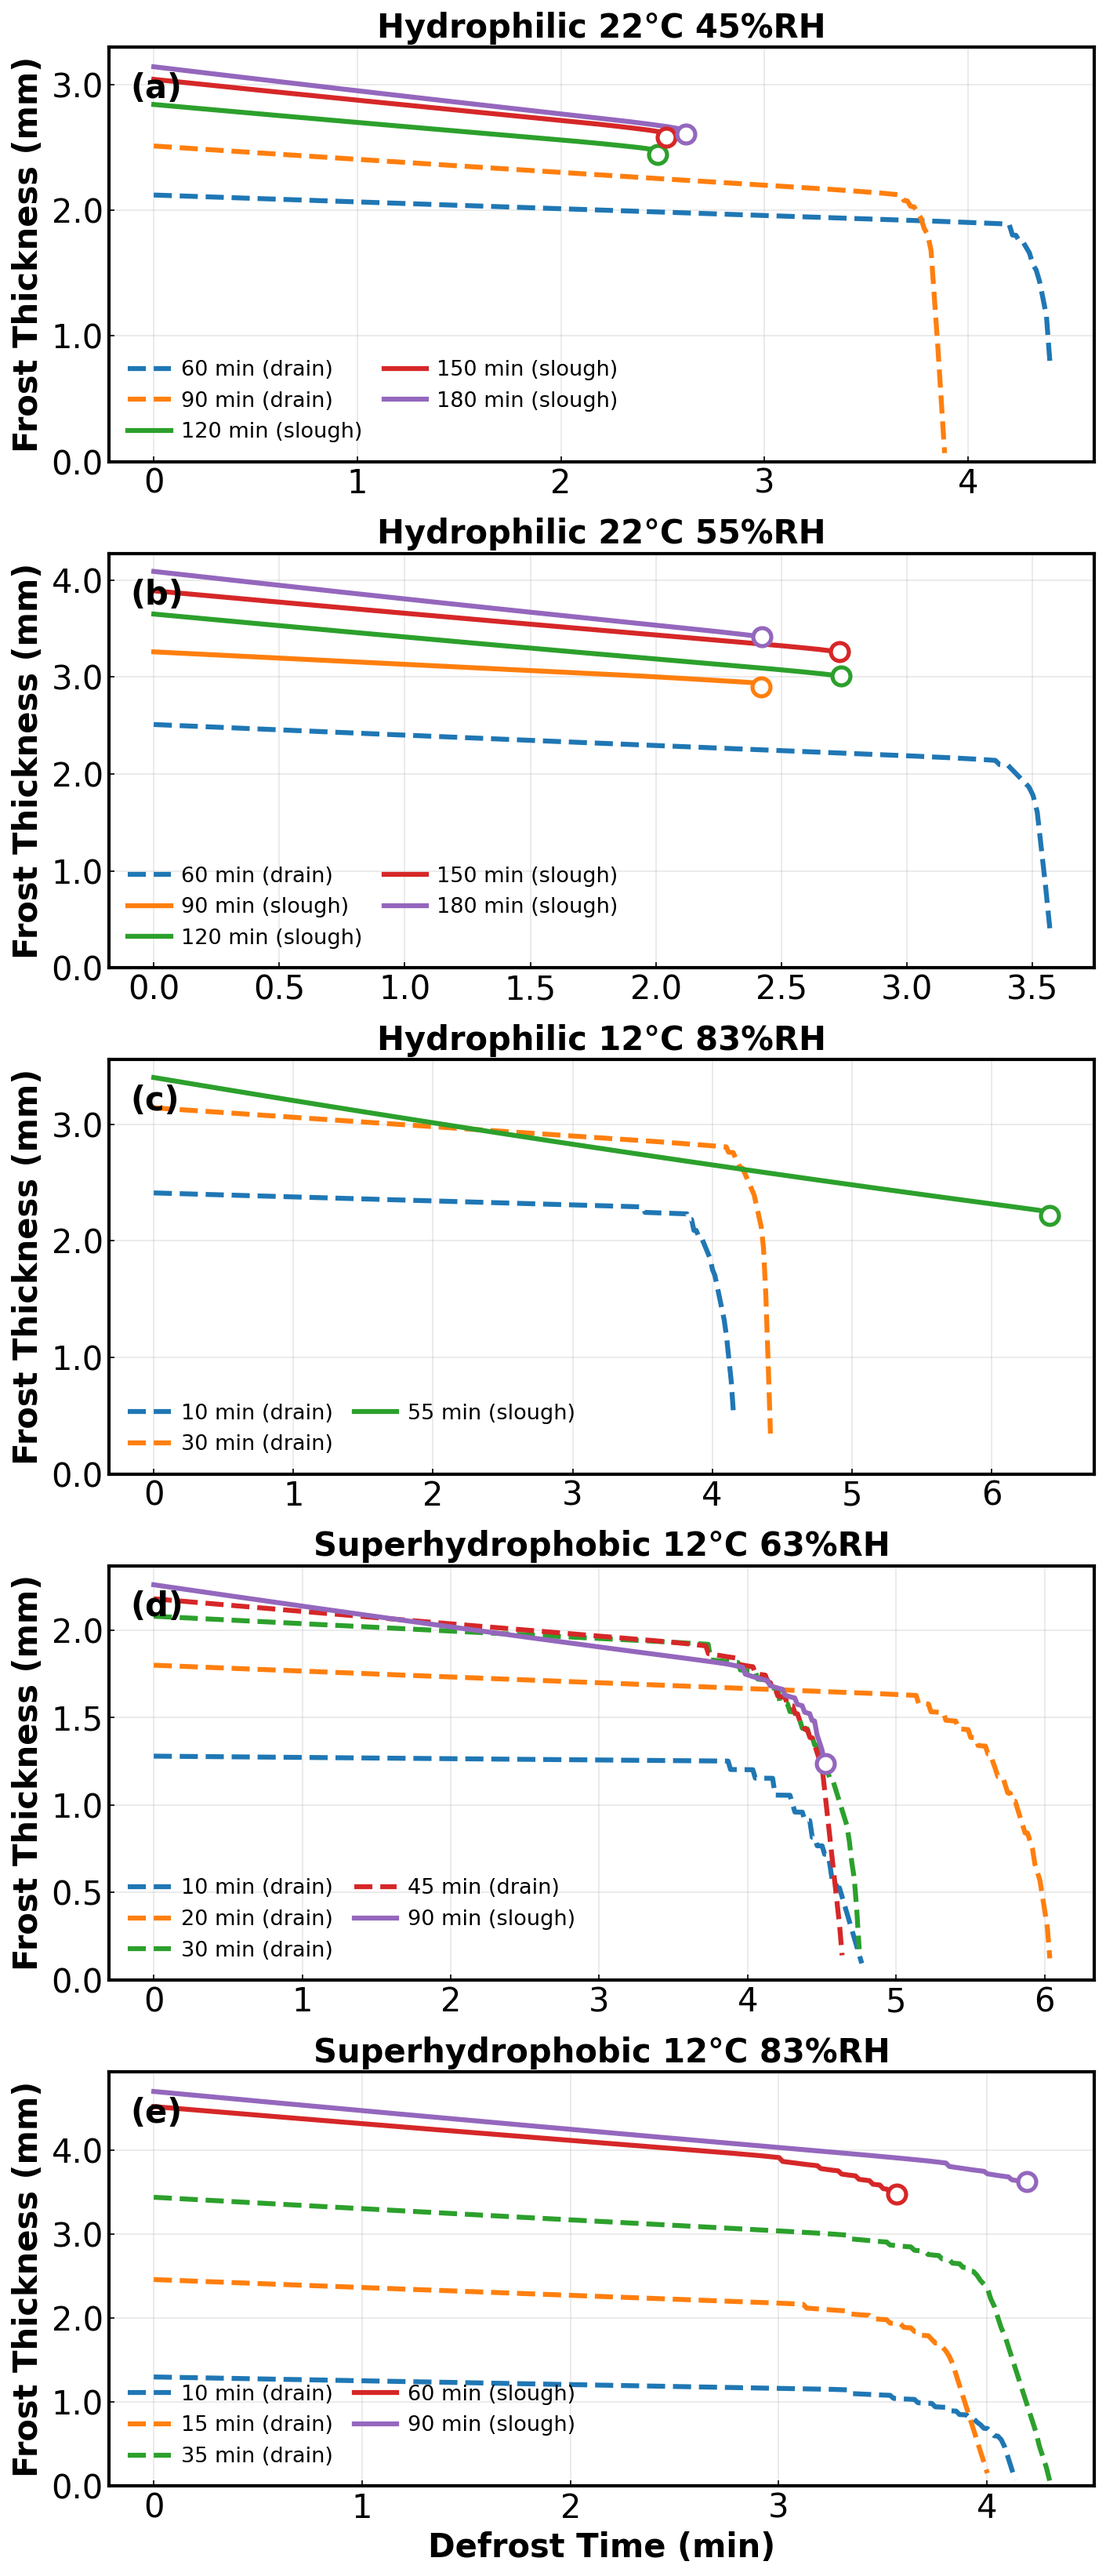
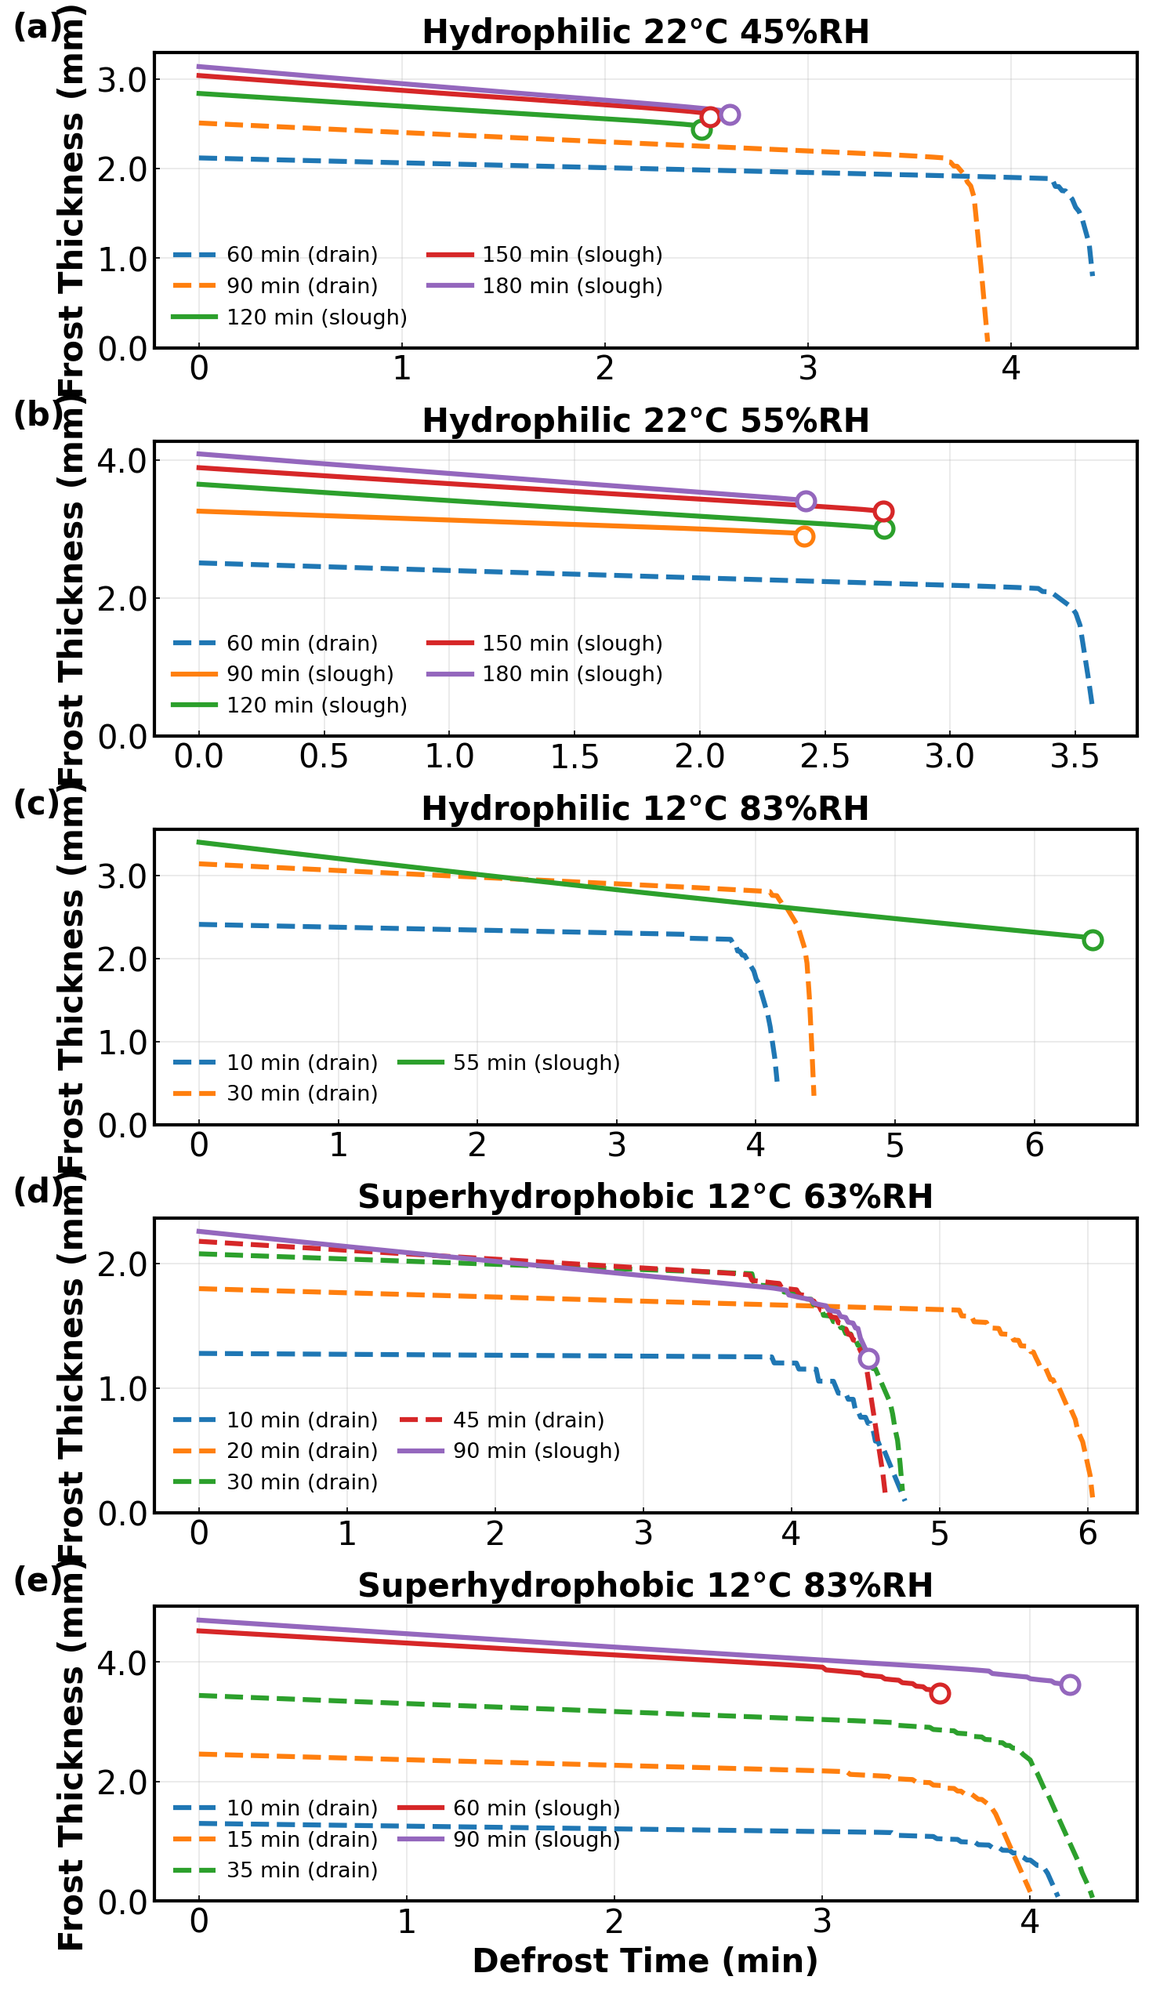
Widen combined thickness panels and move letters outside the axes
Panel aspect 0.42 -> 0.30 on a 13-inch canvas so the column figure
fills the thesis page width; (a)-(e) letters moved outside the axes
to the top-left, clear of the y-axis labels.

diff --git a/plot_defrost_thickness_comparison.py b/plot_defrost_thickness_comparison.py
@@ -419,7 +419,7 @@ def _draw_condition_panel(ax, label, cases, quantity, legend_loc='best'):
     ax.grid(True, alpha=0.3)
     for spine in ax.spines.values():
         spine.set_linewidth(2)
-    ax.set_box_aspect(0.42)
+    ax.set_box_aspect(0.30)
     ax.set_ylim(bottom=0)
     # Uniform one-decimal y ticks so panels align visually
     from matplotlib.ticker import FormatStrFormatter
@@ -432,7 +432,7 @@ def _draw_condition_panel(ax, label, cases, quantity, legend_loc='best'):
 
 
 def _plot_combined_condition_figure(quantity, ylabel, output_file,
-                                    output_dir='figure', figsize=(10, 22)):
+                                    output_dir='figure', figsize=(13, 17)):
     """
     One paper-ready figure with one panel per ambient condition, stacked in
     a single column (5 rows), panel letters (a)-(e) at the top-left corner.
@@ -446,8 +446,8 @@ def _plot_combined_condition_figure(quantity, ylabel, output_file,
     for i, (ax, (label, cases)) in enumerate(zip(axs, CONDITION_CASES.items())):
         print(f"\n{label}:")
         _draw_condition_panel(ax, label, cases, quantity, legend_loc)
-        # Panel letter at the top-left corner
-        ax.text(0.022, 0.94, f'({chr(97 + i)})', transform=ax.transAxes,
+        # Panel letter outside the axes, top-left
+        ax.text(-0.145, 1.14, f'({chr(97 + i)})', transform=ax.transAxes,
                 fontsize=20, fontweight='bold', va='top')
         ax.set_ylabel(ylabel, fontsize=20, fontweight='bold')
     axs[-1].set_xlabel('Defrost Time (min)', fontsize=20, fontweight='bold')
